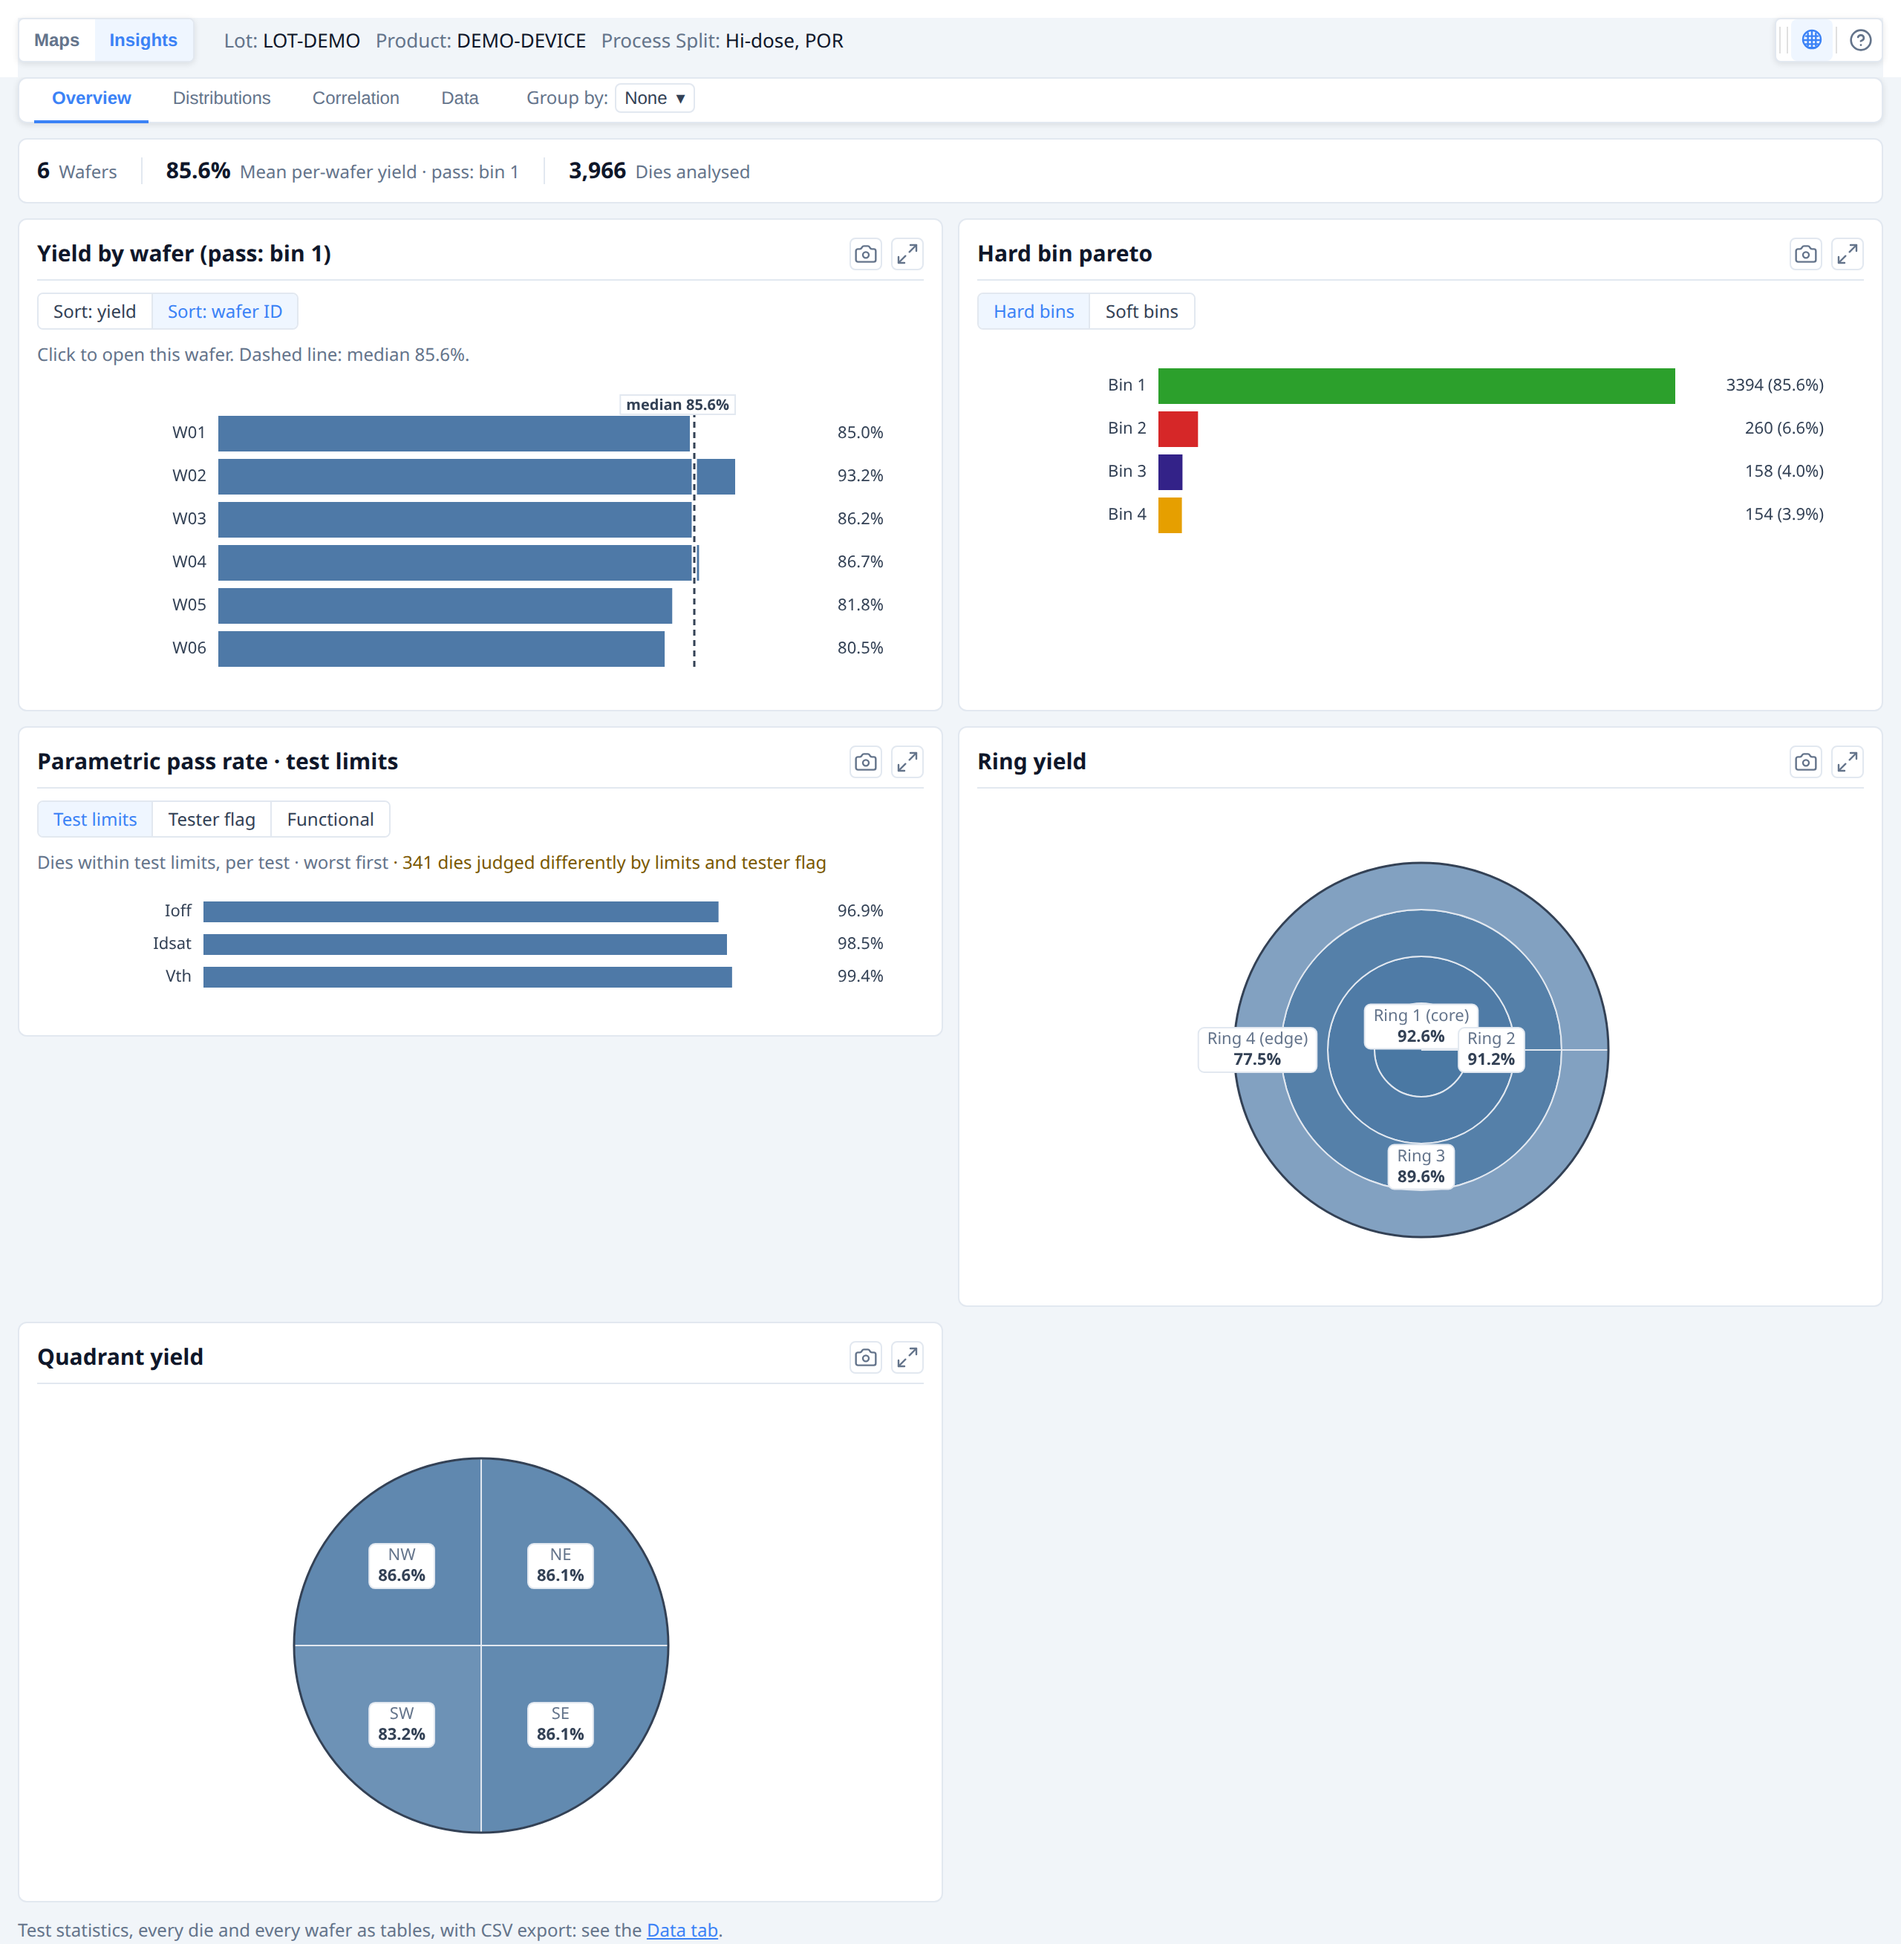
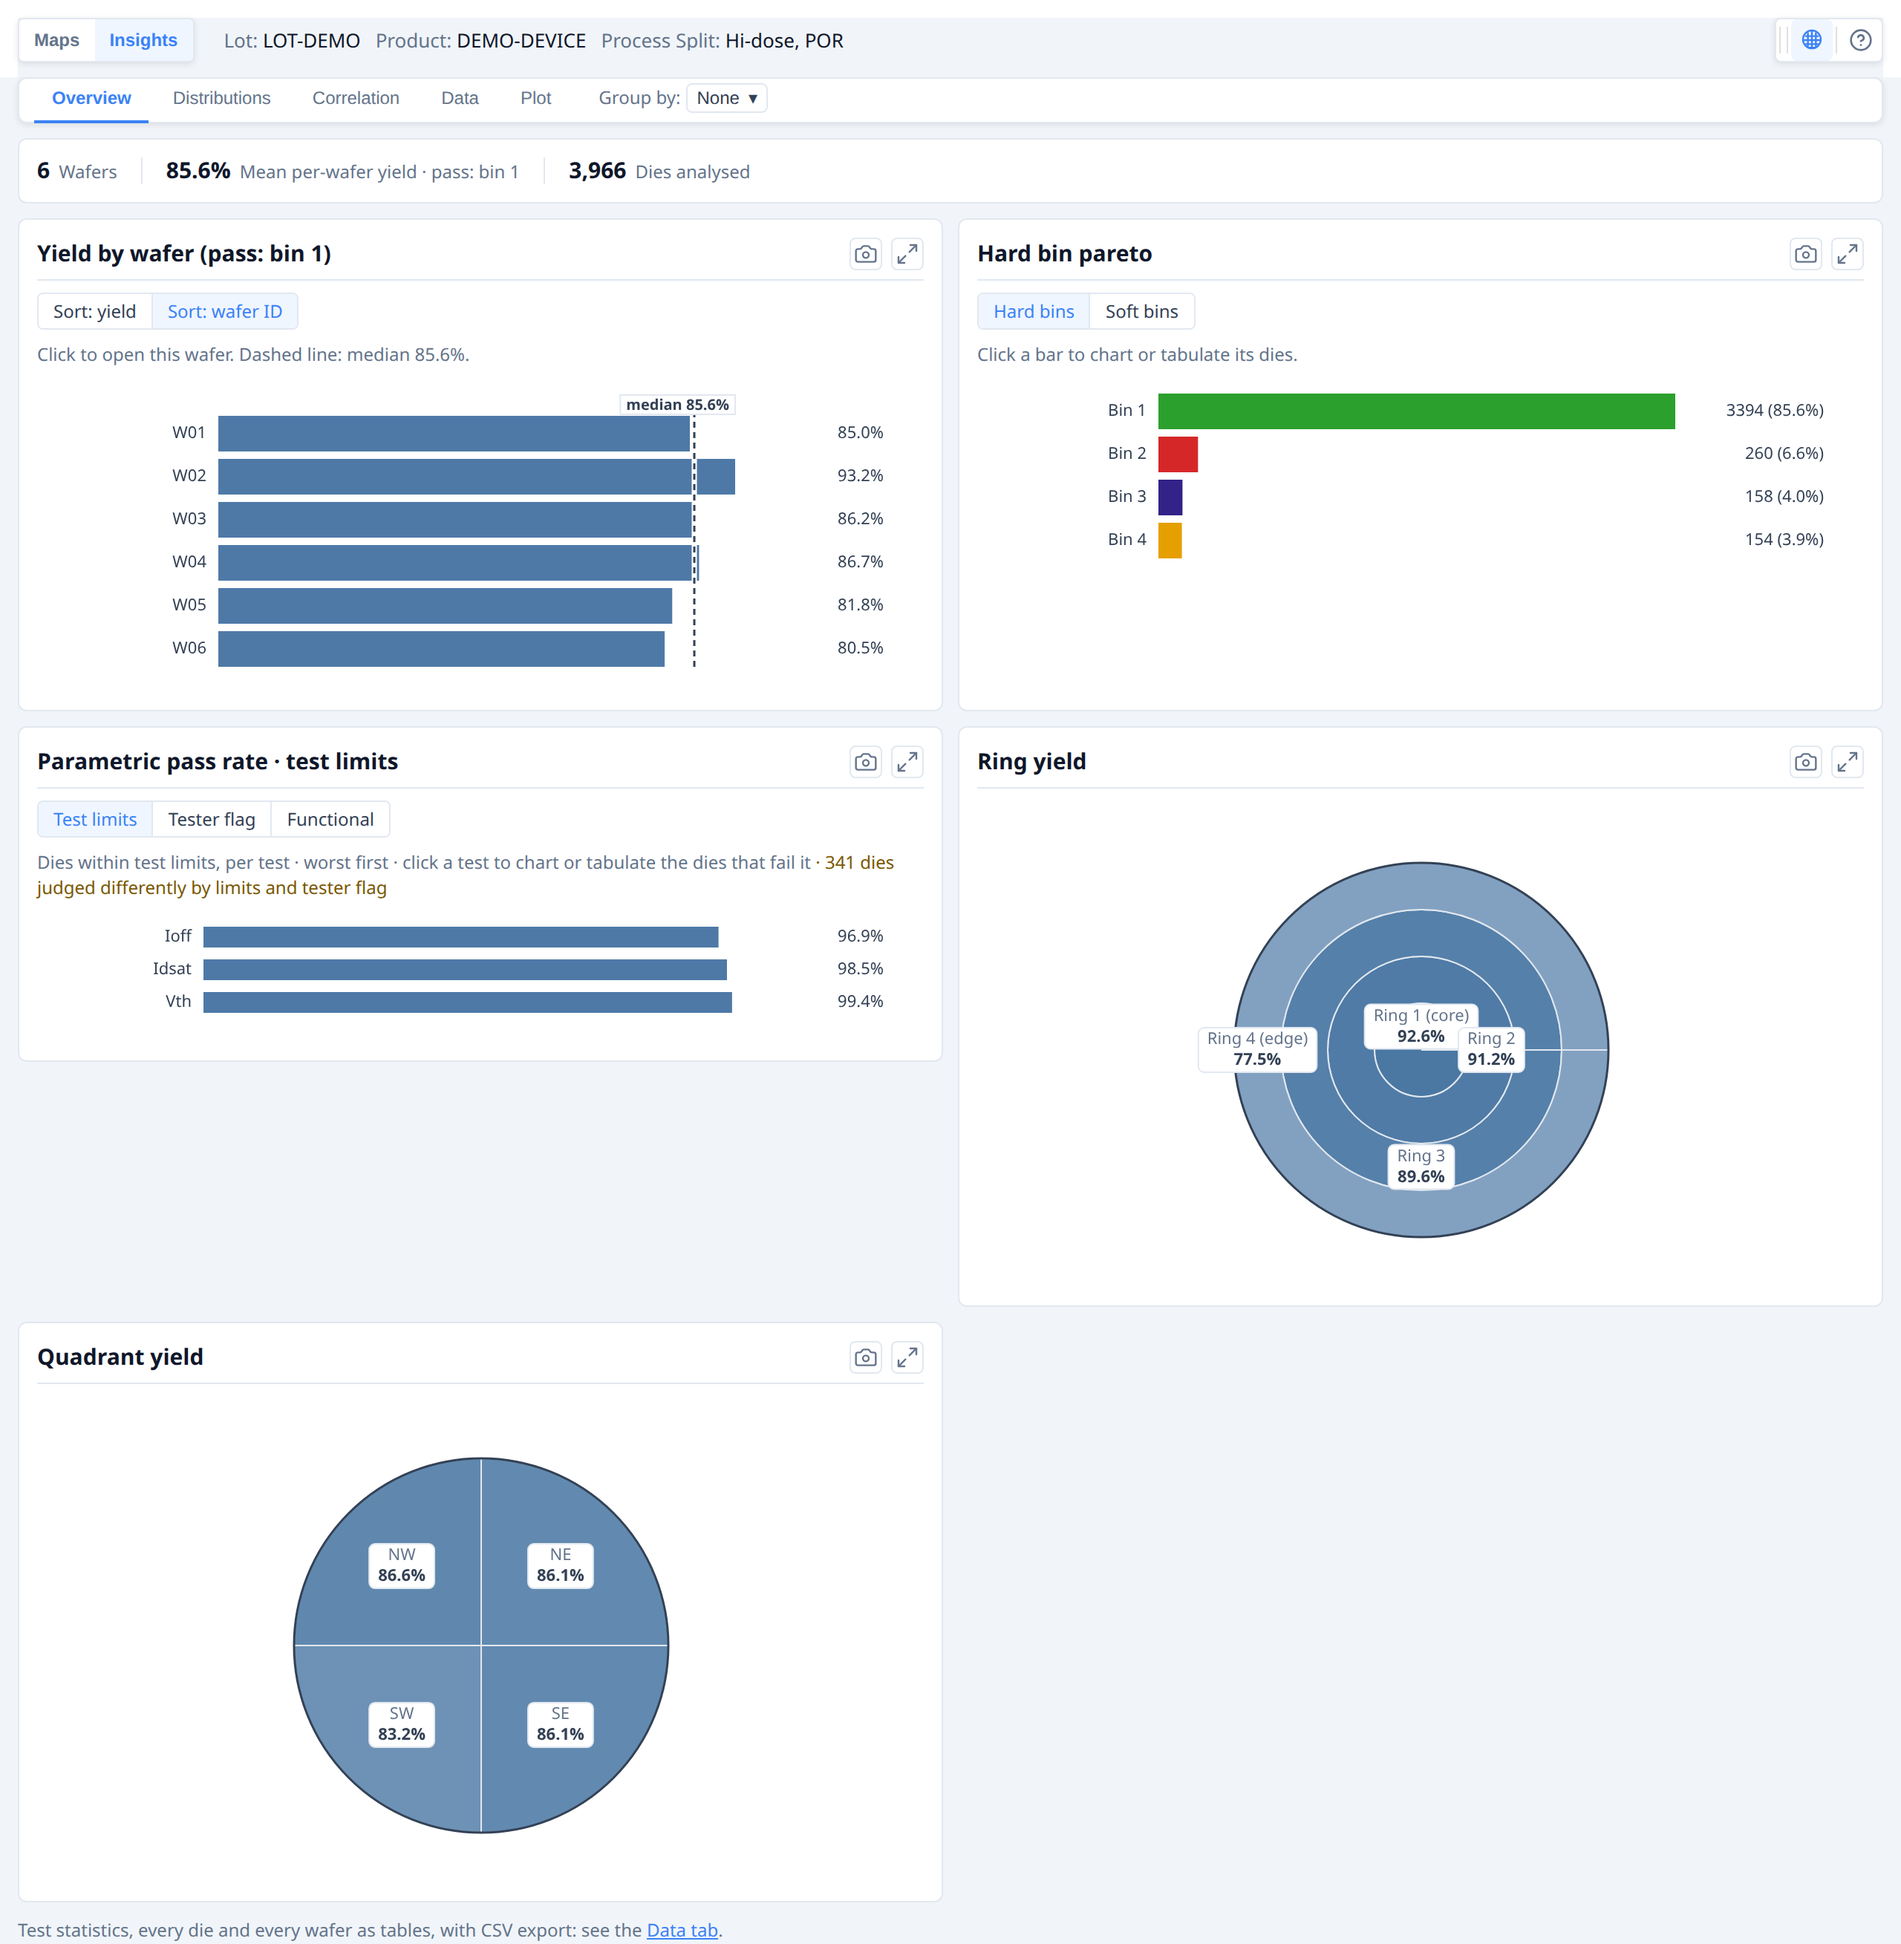
Share saved plots with gallery cards, fix plot layout, and add Plot tab screenshots

diff --git a/packages/canvas-adapter/charts/plotChart.ts b/packages/canvas-adapter/charts/plotChart.ts
@@ -114,6 +114,8 @@ export function renderPlotChart(options: PlotChartOptions): PlotChartHandle {
   let resolved: ResolvedPlot | undefined;
   let canvas: HTMLCanvasElement | undefined;
   let legend: HTMLElement | undefined;
+  /** Everything above the canvas (the statement of what it shows, notes, the colour key): the canvas starts below it. */
+  let above: HTMLElement | undefined;
   let pointer: { destroy: () => void } | undefined;
   let chips: SeriesLegendItem[] = [];
   const active = new Set<number>();          // legend filter: group indexes, empty = all
@@ -218,7 +220,7 @@ export function renderPlotChart(options: PlotChartOptions): PlotChartHandle {
 
   function drawScatter(): void {
     if (!resolved || !canvas || resolved.marks?.type !== 'scatter' || !resolved.x || !resolved.y) return;
-    applyCanvasFlow(canvas, legend ?? 0);
+    applyCanvasFlow(canvas, above ?? 0);
     const theme = resolveChartCanvasColors(card);
     const { w, h, plotW, plotH } = dims();
     const prep = prepareCanvas(canvas, card, w, h);
@@ -291,7 +293,7 @@ export function renderPlotChart(options: PlotChartOptions): PlotChartHandle {
 
   function drawHistogram(): void {
     if (!resolved || !canvas || !histogram || !resolved.x || !resolved.y) return;
-    applyCanvasFlow(canvas, legend ?? 0);
+    applyCanvasFlow(canvas, above ?? 0);
     const theme = resolveChartCanvasColors(card);
     const { w, h, plotW, plotH } = dims();
     const prep = prepareCanvas(canvas, card, w, h);
@@ -329,7 +331,7 @@ export function renderPlotChart(options: PlotChartOptions): PlotChartHandle {
   function drawCategorical(): void {
     const m = resolved?.marks;
     if (!resolved || !canvas || !resolved.x || !resolved.y || !m || (m.type !== 'box' && m.type !== 'bar')) return;
-    applyCanvasFlow(canvas, legend ?? 0);
+    applyCanvasFlow(canvas, above ?? 0);
     const theme = resolveChartCanvasColors(card);
     // Slant the labels when flat ones would collide. Measured before the canvas is sized, since it sets the margin.
     const probe = canvas.getContext('2d');
@@ -427,7 +429,7 @@ export function renderPlotChart(options: PlotChartOptions): PlotChartHandle {
   function drawLine(): void {
     const m = resolved?.marks;
     if (!resolved || !canvas || !resolved.x || !resolved.y || !m || m.type !== 'line') return;
-    applyCanvasFlow(canvas, legend ?? 0);
+    applyCanvasFlow(canvas, above ?? 0);
     const theme = resolveChartCanvasColors(card);
     const { w, h, plotW, plotH } = dims();
     const prep = prepareCanvas(canvas, card, w, h);
@@ -539,7 +541,7 @@ export function renderPlotChart(options: PlotChartOptions): PlotChartHandle {
   function rebuild(): void {
     pointer?.destroy(); pointer = undefined;
     body.innerHTML = '';
-    canvas = undefined; legend = undefined; chips = []; hovered = null; hoveredBin = -1; drawn = []; geometry = undefined;
+    canvas = undefined; legend = undefined; above = undefined; chips = []; hovered = null; hoveredBin = -1; drawn = []; geometry = undefined;
     cat = undefined; hoveredCell = null; lineX = []; hoveredLine = -1; bottomMargin = BOTTOM;
     active.clear(); selected.clear();
     const r = resolved;
@@ -563,13 +565,16 @@ export function renderPlotChart(options: PlotChartOptions): PlotChartHandle {
       : '';
     hint.textContent = plotFootnote(r) + interact;
     markNoPrint(hint);   // on paper the card's print block says this, without the instructions to click
-    body.appendChild(hint);
+    above = doc.createElement('div');
+    above.style.display = 'flow-root';   // keeps the legend's margin inside, so the canvas starts below it
+    body.appendChild(above);
+    above.appendChild(hint);
     for (const note of r.notes) {
       const n = doc.createElement('div');
       markNoPrint(n);
       n.textContent = note;
       Object.assign(n.style, { color: CLR.warnText, fontSize: FONT.body, marginBottom: SPACE.xs } as Partial<CSSStyleDeclaration>);
-      body.appendChild(n);
+      above.appendChild(n);
     }
     if (r.plotted === 0) { renderEmptyState(body, 'Nothing to plot: no mark has every value this plot needs.'); return; }
 
@@ -587,12 +592,12 @@ export function renderPlotChart(options: PlotChartOptions): PlotChartHandle {
         chips.push(chip);
         legend!.appendChild(chip.el);
       });
-      body.appendChild(legend);
+      above.appendChild(legend);
     }
 
     if (r.colorScale) {
       legend = colorbar(r.colorScale);
-      body.appendChild(legend);
+      above.appendChild(legend);
     }
 
     canvas = doc.createElement('canvas');

diff --git a/packages/canvas-adapter/renderWaferGallery.ts b/packages/canvas-adapter/renderWaferGallery.ts
@@ -20,7 +20,7 @@ import type { AggregationMethod } from '../core/aggregates.js';
 import { renderWaferMap, renderWaferMapCard, toPublicViewOptions } from './renderWaferMap.js';
 import { waferPopulation, LOT_STACK_REASON, type DrilldownSource } from './chartPopulation.js';
 import type { DrilldownContext } from './drilldown.js';
-import { createPlotStore } from './plotStore.js';
+import { createPlotStore, type WithPlotStore } from './plotStore.js';
 import type { WaferViewOptions, WaferMapController, CardViewOptions, CardController } from './renderWaferMap.js';
 import { classifyChanged, COLOR_KEYS, findingBin } from './renderWaferMap.js';
 import { findingPatternKey } from '../stats/filterFindings.js';
@@ -552,9 +552,9 @@ export function renderWaferGallery(
   const insightsEnabled      = options.insights?.enabled ?? true;
   /** What each card's own map gets of `insights`: the sweep definitions, for
    *  drilldown on that card's selection, and nothing that makes it an Insights host. */
-  const cardInsights = { enabled: false, sweeps: options.insights?.sweeps };
-  // The reader's saved plots, one list for the Plot tab and for every drilldown menu.
+  // The reader's saved plots, one list for the Plot tab and for every drilldown menu, including each card's own.
   const plotStore = createPlotStore(options.insights?.plots, options.insights?.onPlotsChange);
+  const cardInsights: InsightsOptions & WithPlotStore = { enabled: false, sweeps: options.insights?.sweeps, plotStore };
   // Host-supplied overlay stacking (no-op when undefined; safe high default
   // applies). Restored on destroy() via the returned disposer.
   const disposeOverlayZ      = applyOverlayZ(options.zIndex);

diff --git a/packages/canvas-adapter/renderWaferMap.ts b/packages/canvas-adapter/renderWaferMap.ts
@@ -29,7 +29,7 @@ import { ICONS } from './icons.js';
 import type { InsightsOptions, InsightsTabHandle } from './insightsTab.js';
 // TYPE-ONLY, for the same reason: drilldown opens chart panels, loaded on first use.
 import type { DrilldownContext } from './drilldown.js';
-import { createPlotStore } from './plotStore.js';
+import { createPlotStore, type WithPlotStore } from './plotStore.js';
 import { selectionPopulation, waferPopulation, type DrilldownSource } from './chartPopulation.js';
 import { createIdentityHeader, collapsedLabel, type IdentityHeaderController } from './identityHeader.js';
 import { getDieKey, hasPosition, isPositionedDie } from '../core/dies.js';
@@ -1041,7 +1041,7 @@ export function renderWaferMapCard(
   // Offered only when there is a chart to open (`drilldownOffered`) — with
   // none, right-click stays the browser's (or host's).
   // The reader's saved plots, one list for the Plot tab and for the drilldown menu.
-  const plotStore = createPlotStore(insightsOpts?.plots, insightsOpts?.onPlotsChange);
+  const plotStore = (insightsOpts as WithPlotStore | undefined)?.plotStore ?? createPlotStore(insightsOpts?.plots, insightsOpts?.onPlotsChange);
   const drilldownCtx: DrilldownContext = { sweeps: insightsOpts?.sweeps, plots: plotStore, onSaveImage: exportHooks.onSaveImage, onSaveText: exportHooks.onSaveText, onLocateDie: (die) => locateDie(die) };
   /** Read live: `testDefs` changes with `setData`. */
   const drilldownOffered = (): boolean => !isMapless;

diff --git a/packages/canvas-adapter/plotModal.ts b/packages/canvas-adapter/plotModal.ts
@@ -46,7 +46,7 @@ export function openPlotEditor(o: PlotEditorWindowOptions): void {
   const layout = doc.createElement('div');
   layout.dataset.wmapPlotWindow = '1';
   Object.assign(layout.style, {
-    display: 'flex', flexWrap: 'wrap', gap: SPACE.xxl, alignItems: 'flex-start', width: '100%', boxSizing: 'border-box',
+    display: 'flex', flexWrap: 'wrap', gap: SPACE.xxl, alignItems: 'flex-start', width: '100%', boxSizing: 'border-box', padding: SPACE.xl,
   } as Partial<CSSStyleDeclaration>);
 
   const left = doc.createElement('div');

diff --git a/packages/canvas-adapter/plotStore.ts b/packages/canvas-adapter/plotStore.ts
@@ -98,3 +98,10 @@ export function createPlotStore(
     flush: send,
   };
 }
+
+/**
+ * How a gallery hands its own store to the maps it draws on its cards. Not a public option: a card's map would
+ * otherwise build a store of its own from nothing, and the plots saved on the Plot tab would be missing from the
+ * right-click menu on every card.
+ */
+export interface WithPlotStore { plotStore?: PlotStore }

diff --git a/docs/user-guide.md b/docs/user-guide.md
@@ -867,6 +867,14 @@ first lot field that divides the wafers, and a line over wafer order), to start 
 or to see what each type is for; pressing it again adds only what is missing. Every change you make there is drawn at once; there is no Apply
 button, and the plot is kept as you go.
 
+![The Plot tab: example plots, one card each](images/guide-plot-tab.png)
+
+*The Plot tab after **Add examples**: each card is a plot, with Edit, Duplicate and Delete.*
+
+![The plot editor: the chart beside its Setup tab](images/guide-plot-editor.png)
+
+*Edit opens the plot large, beside its settings. Every change is drawn at once.*
+
 In **Setup**, choose the **chart type**, then the field for each role:
 
 | Chart type | What it shows | Fields |
@@ -944,7 +952,9 @@ questions:
 
 **Plots in the right-click menu.** Every saved plot is also a row in the menu that
 opens on a selection or a wafer (**Plots** section), drawn over just those dies and
-captioned with them. **New plot…** in the same menu starts a draft on the selection;
+captioned with them.
+
+![The right-click menu on a selection, with the Plots section](images/guide-plot-drilldown.png) **New plot…** in the same menu starts a draft on the selection;
 a draft is kept only if you press **Add to my plots**.
 
 ### Sweep cards
